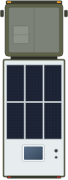
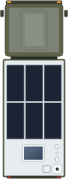
Dashboard: Draufsicht korrigiert (Dachprofil, Antennen, Starlink, LoRa), Konzept mit beiden Drehmodi und Themes, Architektur
Claude-Session: https://claude.ai/code/session_013DCenfRdCFAbqtyfTagYZP

Changed region(s): [[0.7941, 0.7778, 0.8824, 0.9722], [0.6176, 0.9167, 0.7647, 0.9722], [0.2941, 0.1389, 0.3235, 0.25]]

diff --git a/dashboard/README.md b/dashboard/README.md
@@ -7,15 +7,37 @@
 | `assets/nx01-top.svg` | Vektor-Draufsicht, Front oben, Maßstab 1 px = 10 mm, Drehpunkt (122.5, 349.5) – für Lovelace (Smartphone, Tablet, PC) |
 | `assets/nx01-top-{120,180,240,360}.png` | transparente PNG-Exporte in fester Höhe – für openHASP (`img`-Objekt, Drehung über `angle`) |
 
-Nachgezeichnet nach Drohnenaufnahmen (Tunesien) und den Fahrzeugmaßen (6990 × 2450 mm): Fahrerhaus mit Dachluke, Wohnkoffer mit 6 Solarmodulen (2 × 3), Dachfenster und zwei Lüftern im Heck.
+Nachgezeichnet nach Drohnenaufnahmen (Tunesien), der Dachkamera und den Fahrzeugmaßen (6990 × 2450 mm):
+
+- Fahrerhaus mit mittiger Dachprofilierung (Sicken)
+- Wohnkoffer mit 6 Solarmodulen (2 × 3) und Dachfenster
+- rechts in einer Flucht, von vorn nach hinten: 5G-Antenne (weiß), WiFi-Antenne (weiß), Kathrein HDZ 100 Kabel-Dachdurchführung
+- Heck rechts: LoRa-Magnetfußantenne auf weißem Blech 35 × 35 cm, links daneben Starlink Mini
 
 ## Konzept
 
 ![Konzept](konzept.png)
 
-- Kompassring mit Himmelsrichtungen, Fahrzeug dreht mit `Ausrichtung geografisch`
+- Kompassring mit Himmelsrichtungen; konfigurierbar: **Fahrzeug dreht** (Nord oben) oder **Ring dreht** (Fahrzeug fix, Fahrtrichtung oben)
+- helles und dunkles Design (folgt dem HA-Theme)
+- Horizontstreifen mit Sonnenhöhe über den Tag, Dämmerung, Auf-/Untergang, Mittag (ersetzt die Horizon Card)
 - Sonnenbahn des Tages (Aufgang → Untergang) mit aktueller Sonnenposition
 - Mondposition und -phase
 - Text: Ausrichtung, Sonnen-/Mondstand, Sonne relativ zum Fahrzeug („Fahrerseite im Schatten“)
 
 Die Mockup-Werte sind Beispielwerte.
+
+## Architektur
+
+```
+HA-Compass (HACS-Integration, Domain ha_compass)
+├── Sensoren für die aktuelle GPS-Position (nicht die HA-Heimatposition):
+│   Sonne: Azimut, Höhe, Dämmerung, Aufgang, Mittag, Untergang
+│   Mond:  Azimut, Höhe, Phase, Beleuchtung, Auf-/Untergang
+│   relativ zum Fahrzeug: Sonnenwinkel zum Bug, beschattete Seite
+├── Lovelace-Karte ha-compass-card (wird von der Integration mitgeliefert und registriert)
+└── openHASP-Seite 480 × 480 (Vorlage)
+```
+
+Eine eigene Integration ist nötig, weil die HA-Integrationen `sun` und `moon` mit der festen Heimatposition rechnen
+und keine Mondposition liefern. Im Wohnmobil muss mit der GPS-Position gerechnet werden.
